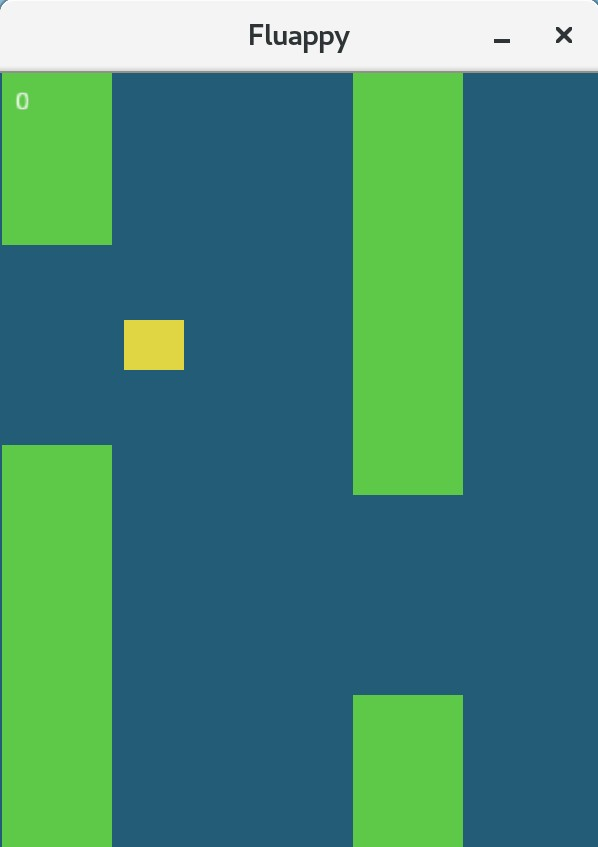
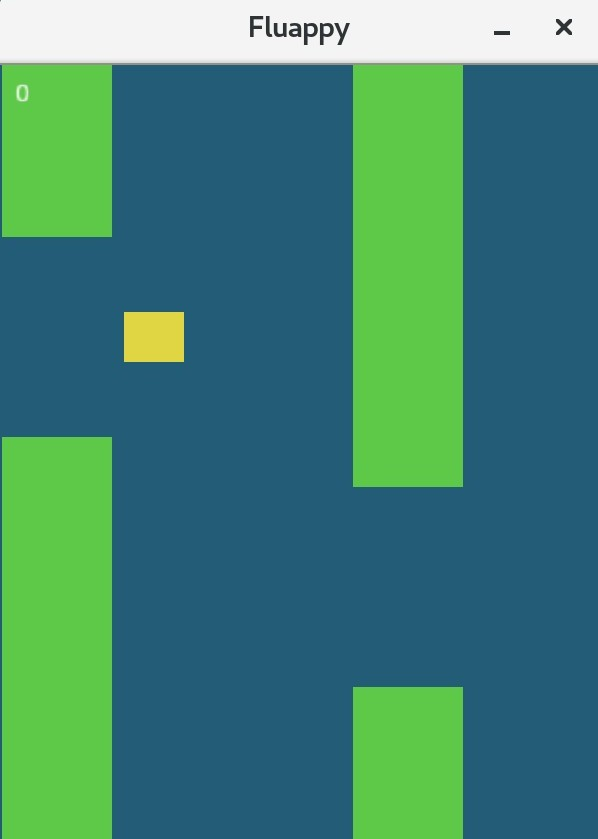
README: resize and move screenshot

diff --git a/README.md b/README.md
@@ -3,12 +3,12 @@
 Fluappy is a clone of the popular Flappy Bird game developed in Lua using the
 [LÖVE framework](https://love2d.org/).
 
+<img src="screenshot.jpg" width="239">
+
 ## Play
 
 You will need to install the LÖVE framework. Check the instructions for your
 platform [here](https://love2d.org/wiki/Getting_Started).
-
-![screenshot](screenshot.jpg)
 
 ## Credits
 
